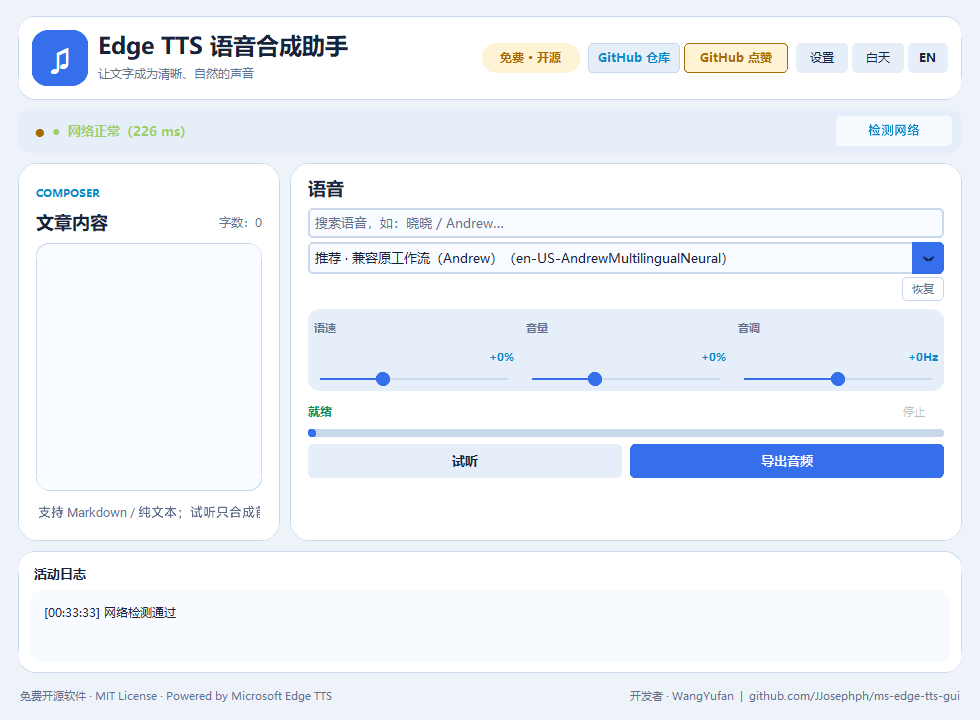
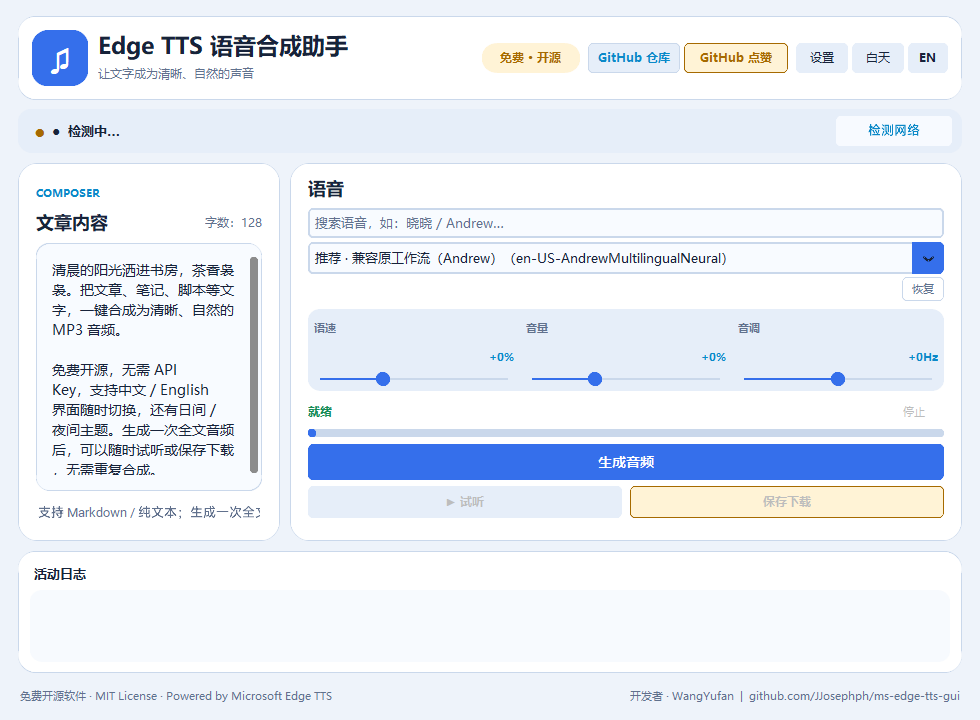
docs: refresh README UI screenshots with real app captures

diff --git a/README.md b/README.md
@@ -71,7 +71,7 @@ The project is designed as a general-purpose open-source tool. It includes pract
 ## Interface Preview
 
 <p align="center">
-  <img src="assets/ui-preview-dark.svg" alt="Dark theme preview" width="900">
+  <img src="assets/ui-preview-dark.png" alt="Dark theme preview" width="900">
 </p>
 
 <p align="center">
@@ -79,7 +79,7 @@ The project is designed as a general-purpose open-source tool. It includes pract
 </p>
 
 <p align="center">
-  <img src="assets/ui-preview-light.svg" alt="Light theme preview" width="900">
+  <img src="assets/ui-preview-light.png" alt="Light theme preview" width="900">
 </p>
 
 <p align="center">
